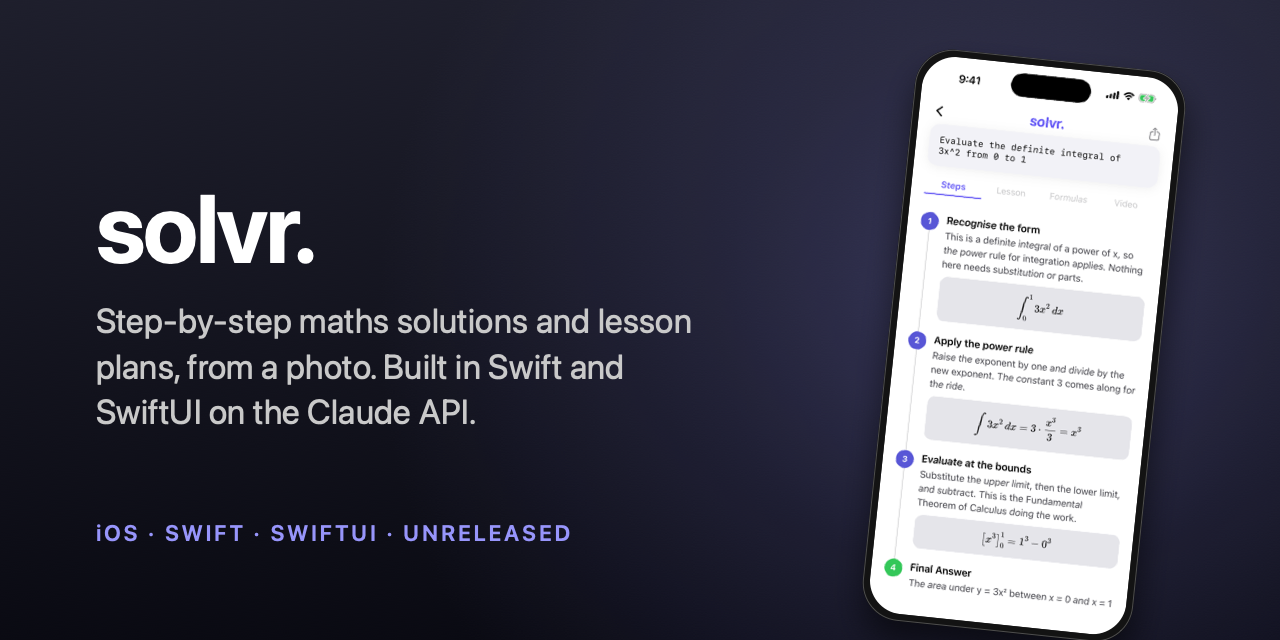
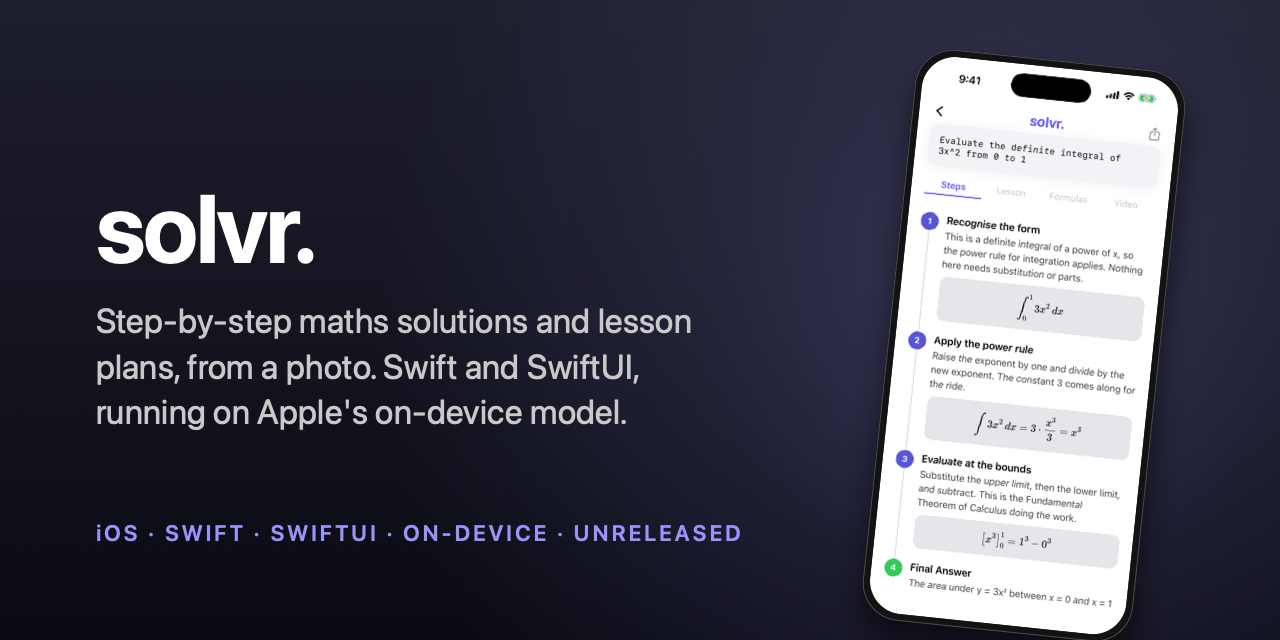
Capture the window, not the region, when regenerating screenshots
docs/images/macos.png was published with another window overlapping it, and
the maths behind it had not finished rendering either, so what the README
showed was grey placeholder boxes where the LaTeX belongs.

Both had the same cause. screenshot-mac.sh used `screencapture -R <bounds>`,
which captures a REGION OF THE SCREEN: whatever floats over the app lands in
the committed image. It now resolves the CGWindowID and uses
`screencapture -l`, which captures the window's own surface and cannot pick
up an overlap. That needs CGWindowListCopyWindowInfo, which AppleScript
cannot reach, hence tools/window-id.swift. The 12s wait became 25s, because
the step maths renders in WKWebViews and a capture taken before they paint
is the placeholder version.

Regenerated. Also regenerated the social card, which said "Built in Swift
and SwiftUI on the Claude API" -- the OpenGraph image, i.e. the one thing
every share of this repository showed.

Removed while looking: solvr.ai/Models/ClaudeResponse.swift, 81 lines of
hosted-API wire types (ClaudeRequest, ClaudeMultiModalRequest,
ClaudeAPIResponse ...) with zero references left anywhere. It survived the
backend deletion because it was found by filename, not by symbol.

Documentation that had gone false with the code:
  - ENGINEERING-NOTES claimed "Claude Vision is still used for the harder
    case" for problem detection. It is Vision OCR now, and the section says
    what that trades away: a vision model could answer "which of these lines
[…]

Changed region(s): [[0.0625, 0.625, 0.5, 0.6875], [0.3125, 0.8125, 0.5938, 0.8438], [0.2812, 0.5312, 0.5, 0.5938]]

diff --git a/tools/window-id.swift b/tools/window-id.swift
@@ -1,0 +1,34 @@
+// Print the CGWindowID of the frontmost on-screen window owned by a process.
+//
+// Exists because `screencapture -R <rect>` captures a REGION OF THE SCREEN, so
+// anything floating over the app -- a terminal, a notification -- lands in the
+// committed screenshot. `screencapture -l <windowID>` captures the window itself
+// and is immune to overlap. Getting that id needs CGWindowListCopyWindowInfo,
+// which AppleScript cannot reach.
+//
+//   swift tools/window-id.swift "solvr.ai"
+import CoreGraphics
+import Foundation
+
+let owner = CommandLine.arguments.count > 1 ? CommandLine.arguments[1] : ""
+guard let list = CGWindowListCopyWindowInfo([.optionOnScreenOnly, .excludeDesktopElements],
+                                            kCGNullWindowID) as? [[String: Any]] else {
+    FileHandle.standardError.write(Data("cannot read window list\n".utf8))
+    exit(1)
+}
+
+// Layer 0 is a normal application window; menus, panels and the shadow layers
+// used by some apps sit above it and would otherwise win.
+for w in list {
+    guard let name = w[kCGWindowOwnerName as String] as? String, name == owner,
+          let layer = w[kCGWindowLayer as String] as? Int, layer == 0,
+          let bounds = w[kCGWindowBounds as String] as? [String: Any],
+          let h = bounds["Height"] as? Double, h > 200,
+          let id = w[kCGWindowNumber as String] as? Int
+    else { continue }
+    print(id)
+    exit(0)
+}
+
+FileHandle.standardError.write(Data("no on-screen window for \(owner)\n".utf8))
+exit(1)

diff --git a/tools/render-mockups.swift b/tools/render-mockups.swift
@@ -219,10 +219,10 @@ func renderSocialCard() {
               screenHeight: 560, rotation: -6)
 
     _ = draw("solvr.", at: CGPoint(x: 96, y: 470), size: 96, weight: .bold, colour: white, in: ctx, tracking: -2)
-    _ = draw("Step-by-step maths solutions and lesson plans, from a photo. Built in Swift and SwiftUI on the Claude API.",
+    _ = draw("Step-by-step maths solutions and lesson plans, from a photo. Swift and SwiftUI, running on Apple's on-device model.",
              at: CGPoint(x: 96, y: 340), size: 34, weight: .regular,
              colour: CGColor(gray: 0.74, alpha: 1), in: ctx, maxWidth: 600)
-    _ = draw("iOS · SWIFT · SWIFTUI · UNRELEASED", at: CGPoint(x: 96, y: 120), size: 22,
+    _ = draw("iOS · SWIFT · SWIFTUI · ON-DEVICE · UNRELEASED", at: CGPoint(x: 96, y: 120), size: 22,
              weight: .semibold, colour: indigoHi, in: ctx, tracking: 3)
     save(ctx, as: "social-card")
 }

diff --git a/solvr.ai/ViewModels/ScannerViewModel.swift b/solvr.ai/ViewModels/ScannerViewModel.swift
@@ -61,8 +61,8 @@ final class ScannerViewModel {
                 }
             } catch {
                 await MainActor.run {
-                    let claudeError = error as? SolverError
-                    errorMessage = claudeError?.errorDescription ?? error.localizedDescription
+                    let solverError = error as? SolverError
+                    errorMessage = solverError?.errorDescription ?? error.localizedDescription
                     state = .camera
                     Haptics.medium()
                 }

diff --git a/Packages/SolvrCore/Sources/SolvrCore/SolutionProvider.swift b/Packages/SolvrCore/Sources/SolvrCore/SolutionProvider.swift
@@ -38,7 +38,7 @@ public enum ProblemInput: Sendable, Equatable {
 public protocol SolutionProvider: Sendable {
     /// Stable, log-safe name for this backend. Recorded against every
     /// measurement, so it has to identify the *configuration*, not just the
-    /// family: `anthropic/claude-opus-5` rather than `anthropic`.
+    /// family: `apple-on-device/guided` rather than `apple`.
     var identifier: String { get }
 
     /// How many requests this backend will genuinely serve at once.

diff --git a/solvr.ai/DemoMode/DemoMode.swift b/solvr.ai/DemoMode/DemoMode.swift
@@ -1,7 +1,7 @@
 import Foundation
 import SolvrCore
 
-/// Runs the app against canned responses instead of the Claude API.
+/// Runs the app against canned responses instead of the on-device model.
 ///
 /// Why it exists: without an API key, solvr.ai can show you a text field and
 /// nothing else, which makes it impossible to evaluate, impossible to screenshot

diff --git a/docs/ENGINEERING-NOTES.md b/docs/ENGINEERING-NOTES.md
@@ -167,10 +167,18 @@ for two reasons beyond speed:
   `∫₀¹ 3x² dx` instead of a 4-megapixel photograph is the difference between a
   cheap request and an expensive one.
 
-Claude Vision is still used for the harder case — `detectProblems` finds and
-boxes multiple problems on a page, which Vision's text recogniser cannot do,
-since "which of these lines form one problem" is a semantic question. The crop
-overlay exists because OCR on a full page of homework returns everything at once.
+Finding *which* problems are on a page used to be the harder case, and it used to
+be a hosted vision call: `detectProblems` sent the photograph to a model that
+could see it and asked for bounding boxes back. That backend is gone and Apple's
+on-device model cannot replace it — it accepts no image input at all.
+
+Vision does it now. The trade is real in both directions. A vision model could
+answer "which of these lines form one problem", which is a semantic question, and
+Vision cannot: it returns one box per recognised line and the grouping is not
+attempted. What Vision gives back is a *measured* box rather than coordinates a
+model was asked to estimate, which is the part that used to drift. The crop
+overlay still exists because OCR on a full page of homework returns everything at
+once.
 
 ## Maths rendering
 
@@ -187,14 +195,6 @@ copy in the app had already drifted into forgetting quotes.
 **Dollar delimiters are stripped before wrapping.** Models emit `$...$`, `$$...$$`
 and bare expressions interchangeably, and a `$` that survives into the KaTeX
 input renders as a literal dollar sign in the middle of an equation.
-
-## Model selection, and a migration shim
-
-`selectedModel` maps stored identifiers forward: a preference saved as
-`claude-sonnet-4-20250514` resolves to the current Sonnet, and the retired Haiku
-identifier resolves to the current Haiku. Model identifiers are retired faster
-than users open Settings, and the alternative is an app that starts returning 404
-after an upgrade for a reason the user cannot see or fix.
 
 ## Demo mode
 

diff --git a/README.md b/README.md
@@ -14,10 +14,10 @@ no API key, no server, no network, nothing leaving the device.
 
 > **Status: built and working, not released.** It is not on the App Store, there
 > are no users, and there are no download numbers to quote. It runs on my phone
-> and on my Mac, and you can run it on yours in about five minutes — including
-> without an API key — see [No key is required to start](#no-key-is-required-to-start)
-> for the default backend, and [Try it without a key](#try-it-without-a-key) for the
-> fixtures.
+> and on my Mac, and you can run it on yours in about five minutes. There is no
+> key to paste and no account to make — see
+> [Try it without a key](#try-it-without-a-key) if your device cannot run Apple
+> Intelligence.
 
 It exists because I have taught calculus and statistics since 2022 and kept
 rebuilding the same lesson plans by hand. The feature set is not a guess about
@@ -75,7 +75,7 @@ cd solvr-ai
 open solvr.ai.xcodeproj      # run on any iOS 26 simulator
 ```
 
-Then turn on **Settings → Try it without a key → Demo mode**, or launch with
+Then turn on **Settings → Try it without a model → Demo mode**, or launch with
 `-SolvrDemo YES`. Answers come from bundled fixtures; every problem in them is
 synthetic, written for this repository.
 
